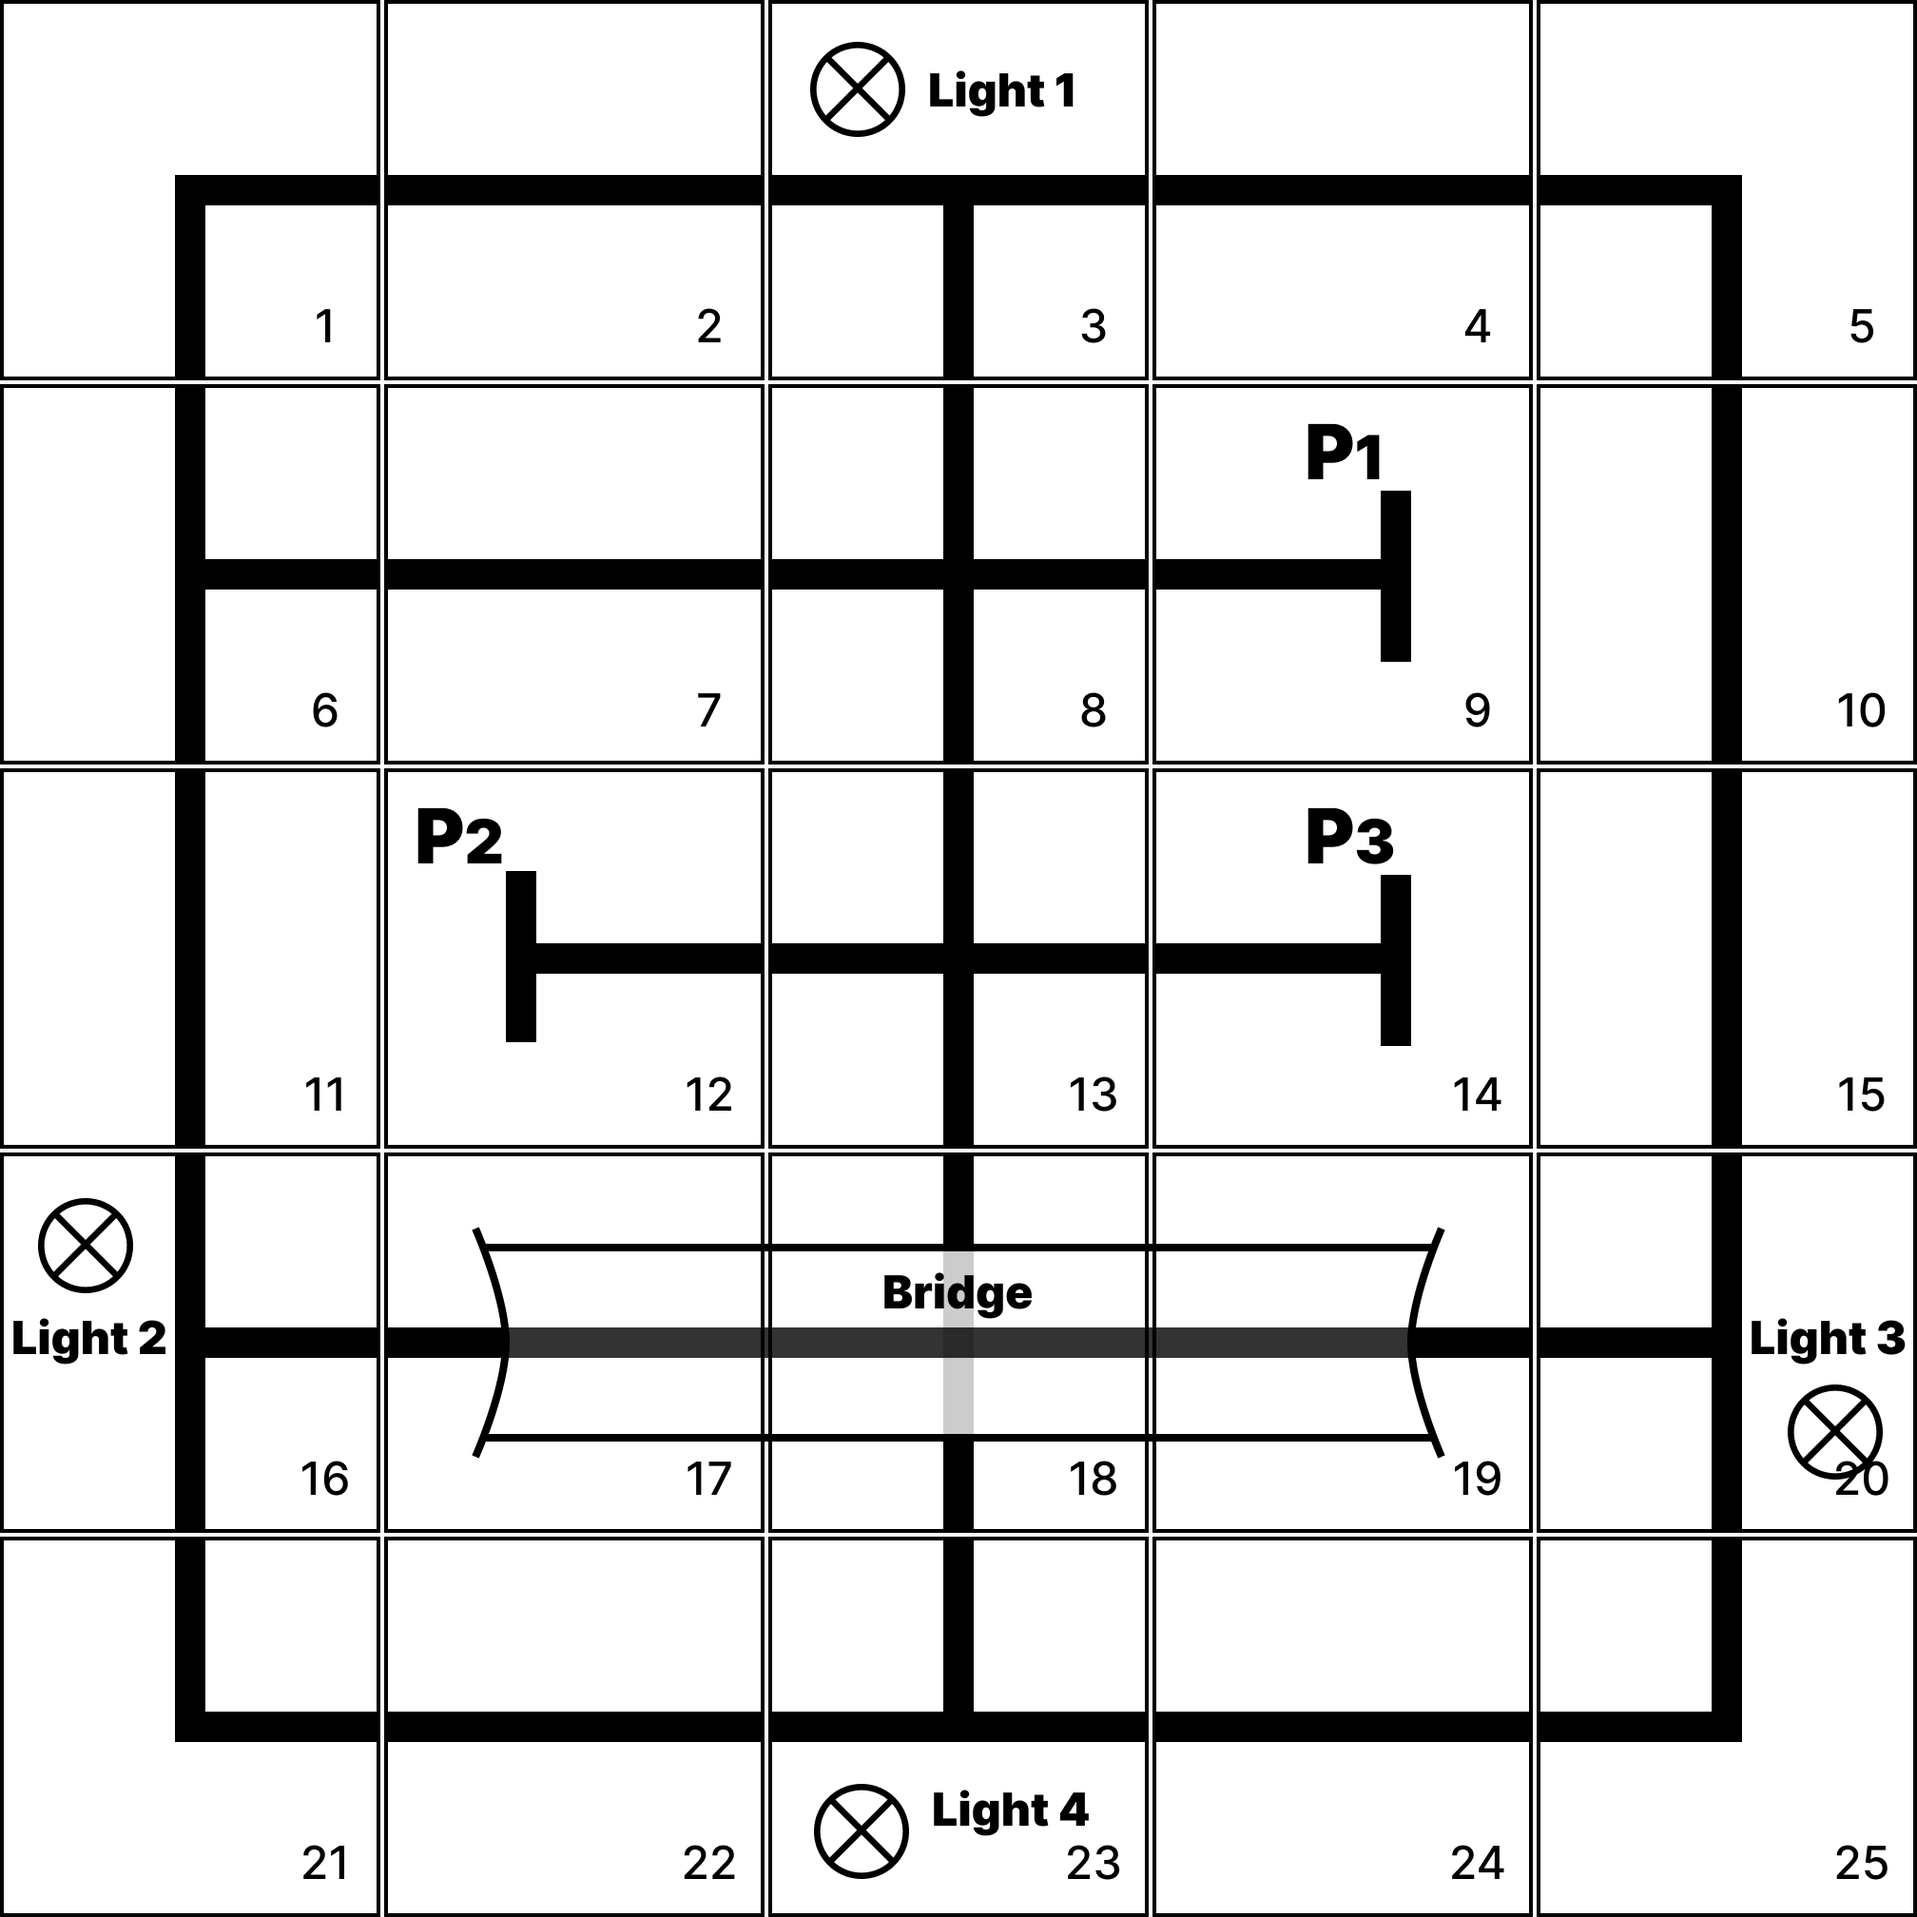
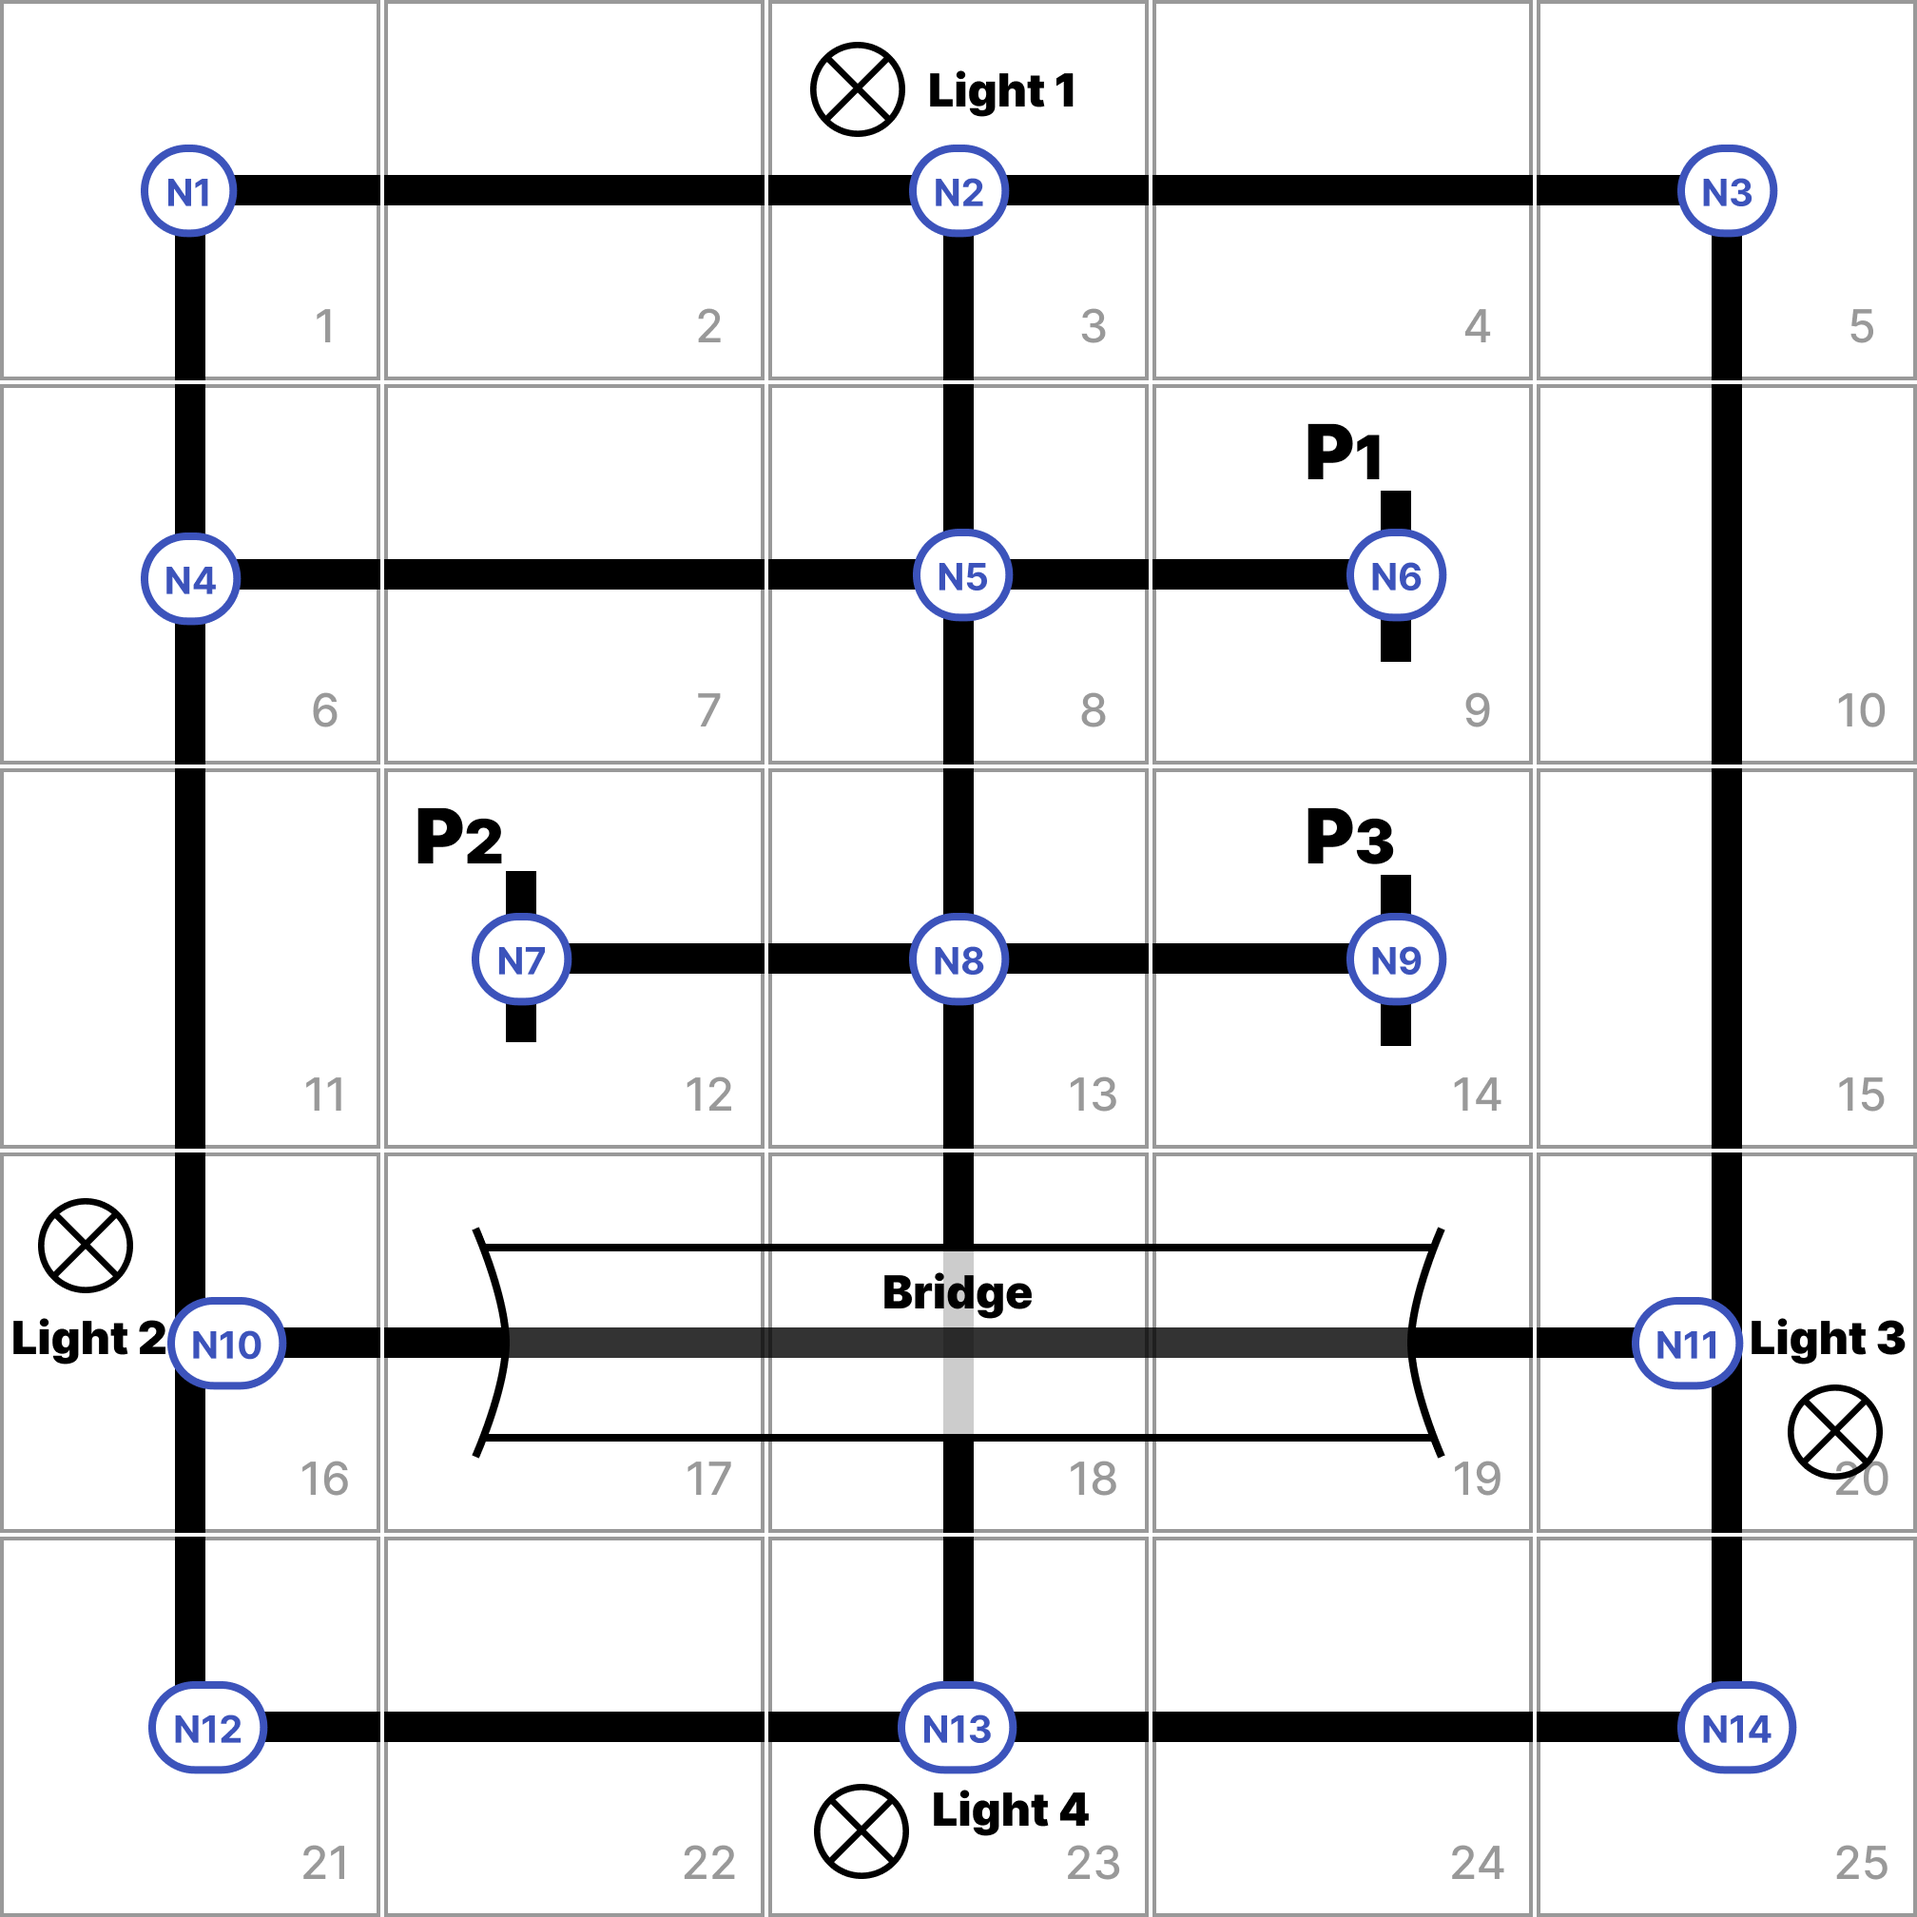
feat(route-selection): update route selection max points and map images

diff --git a/src/components/route-selection.tsx b/src/components/route-selection.tsx
@@ -1,16 +1,15 @@
 "use client";
 import { useState, useEffect } from "react";
 import { updateRoute, getRoute } from "@/lib/db-operations";
-import { get, ref } from "firebase/database";
-import { database } from "@/lib/firebase";
-import { DEFAULT_SETTINGS } from "@/lib/settings-types";
+import { useFieldState } from "@/lib/useFieldState";
 
 interface RouteSelectionProps {
     canWrite: boolean;
 }
 
 export default function RouteSelection({ canWrite }: RouteSelectionProps) {
-    const [maxPoints, setMaxPoints] = useState(DEFAULT_SETTINGS.maxPoints);
+    const { finalDemoDay } = useFieldState();
+    const maxPoints = finalDemoDay ? 14 : 5;
     const [startingPoint, setStartingPoint] = useState(1);
     const [endingPoint, setEndingPoint] = useState(1);
 
@@ -30,27 +29,7 @@ export default function RouteSelection({ canWrite }: RouteSelectionProps) {
             });
     };
 
-    // Fetch settings and route
-    useEffect(() => {
-        // Fetch settings
-        const fetchSettings = async () => {
-            try {
-                const settingsSnapshot = await get(ref(database, "settings"));
-                if (settingsSnapshot.exists()) {
-                    const settings = settingsSnapshot.val();
-                    setMaxPoints(
-                        settings.maxPoints || DEFAULT_SETTINGS.maxPoints
-                    );
-                }
-            } catch (error) {
-                console.error("Error fetching settings:", error);
-            }
-        };
-
-        fetchSettings();
-    }, []);
-
-    // Fetch route when maxPoints is updated
+    // Fetch route when maxPoints changes
     useEffect(() => {
         // Fetch route
         getRoute()
